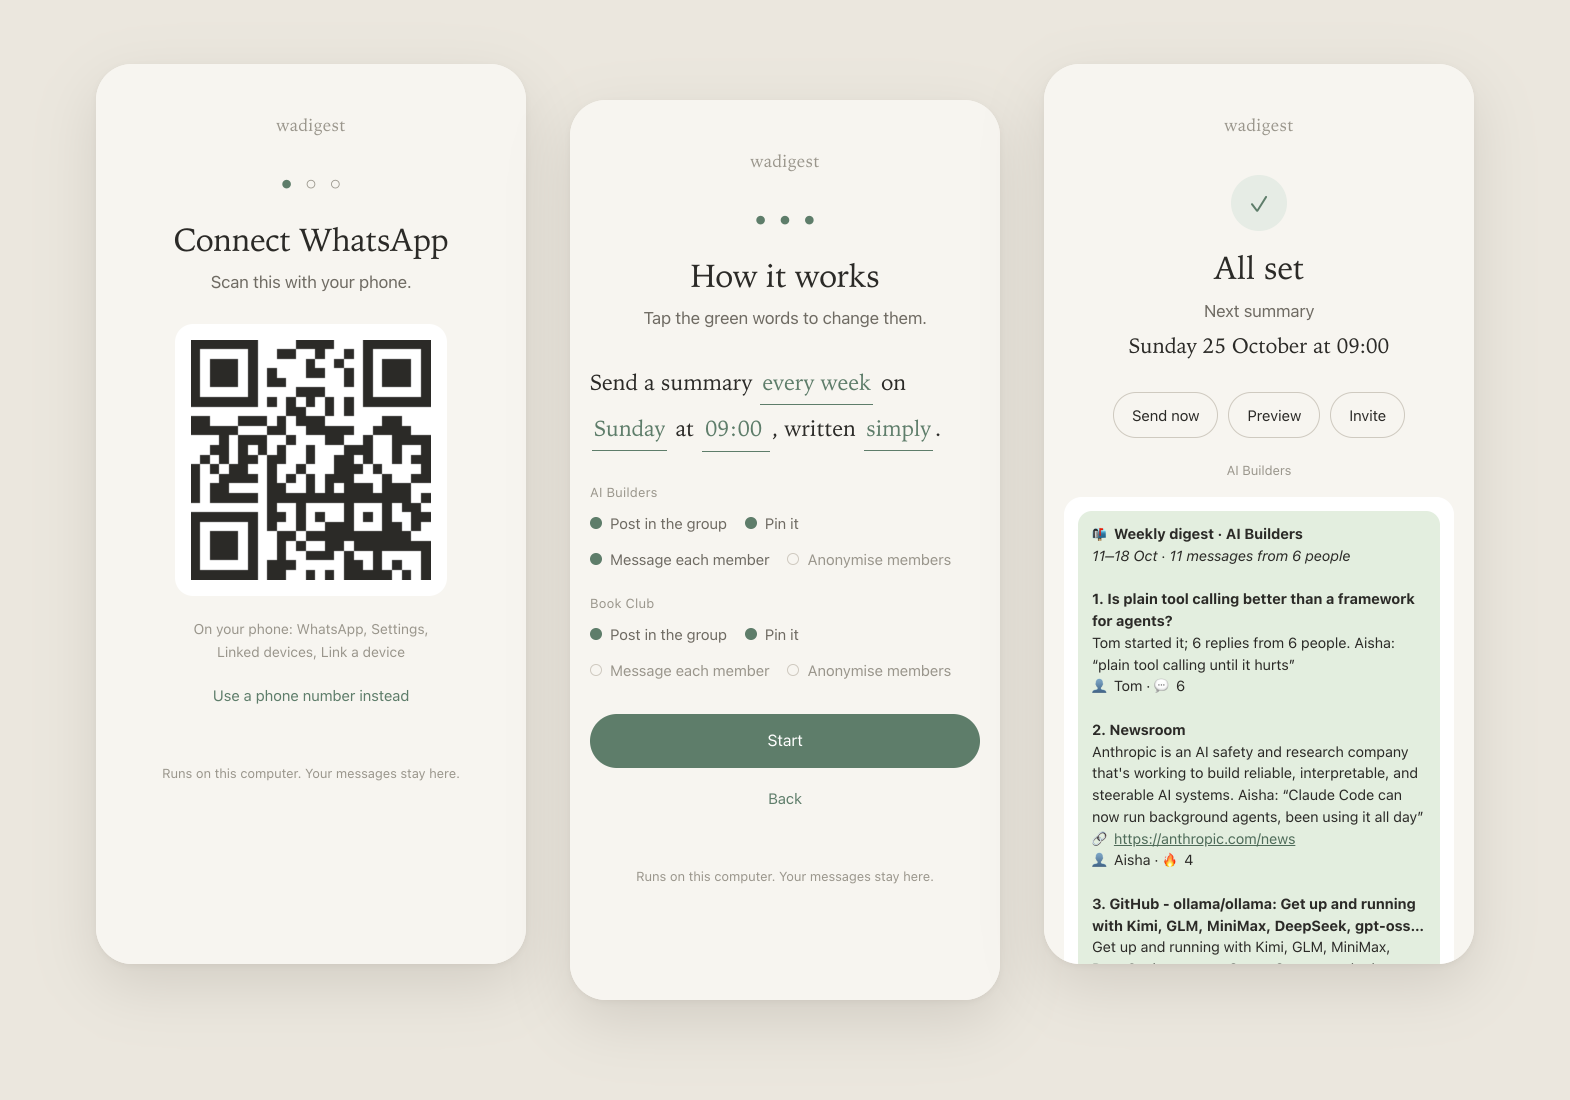
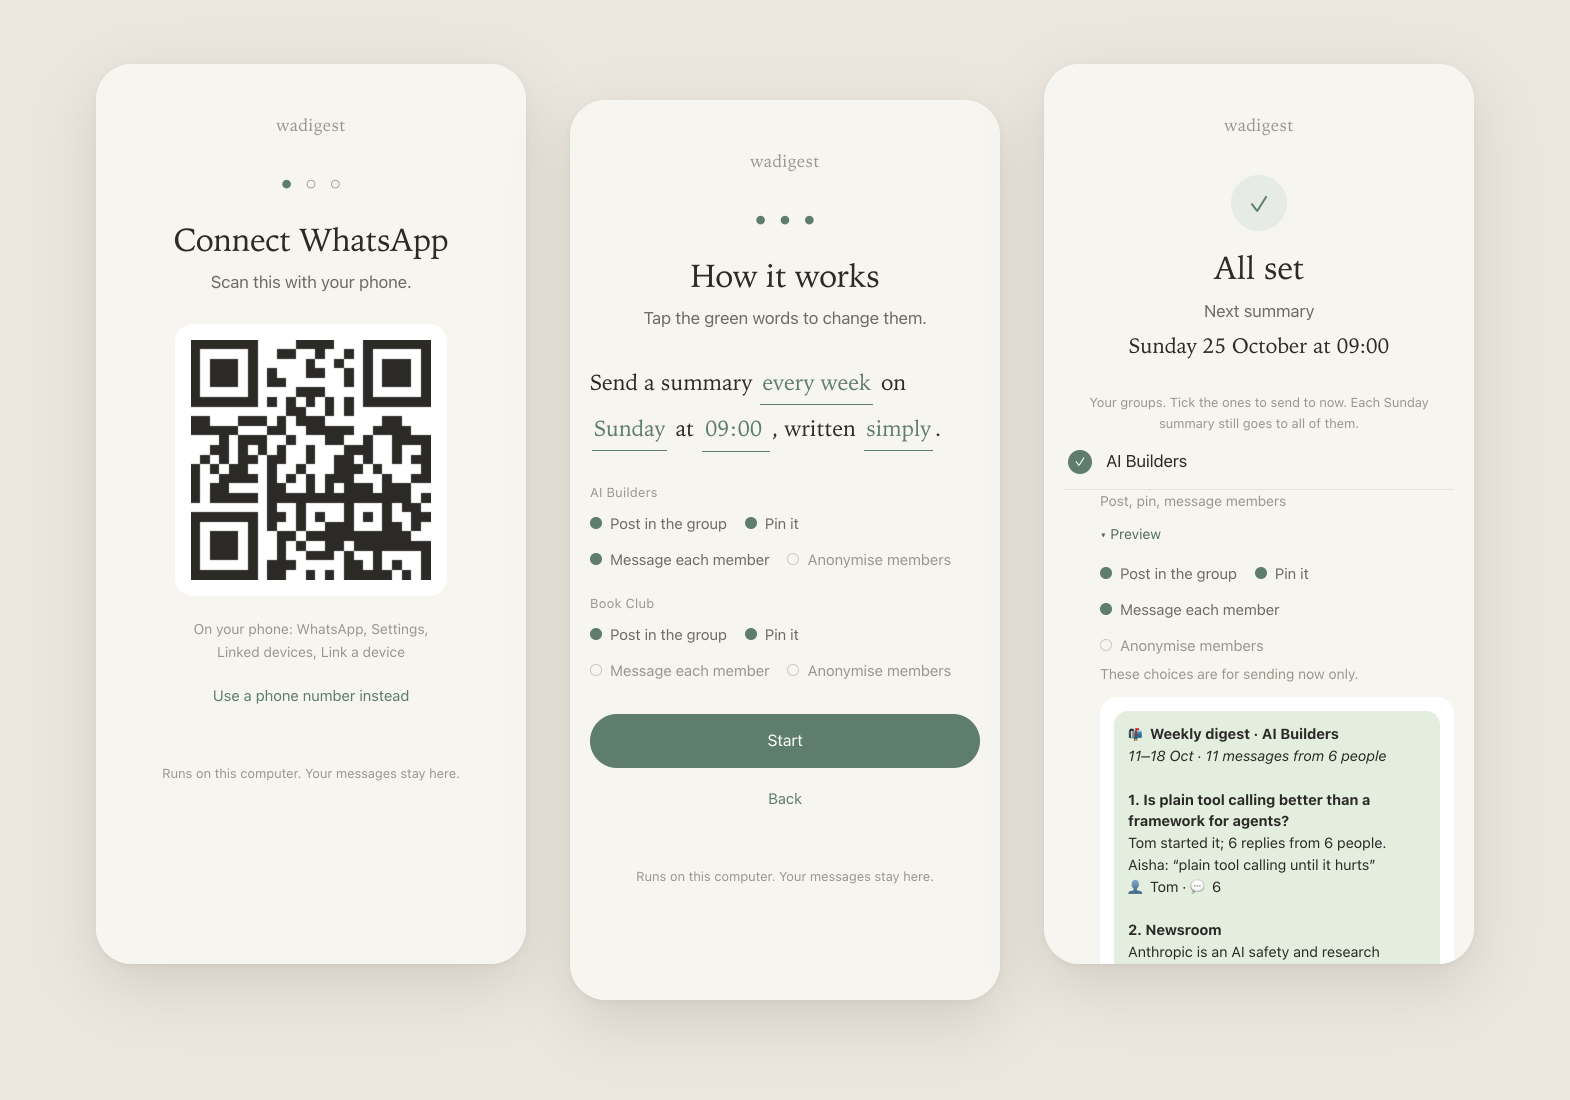
2.5.0: the home screen lists your groups with ticks, a preview for each and one Send button that works once each ticked preview is open

Changed region(s): [[0.6554, 0.34, 0.9363, 0.8964]]

diff --git a/src/ui/index.html b/src/ui/index.html
@@ -94,7 +94,11 @@
   details.pv > summary::before { content: "▸ "; }
   details.pv[open] > summary::before { content: "▾ "; }
   details.pv > .phone { margin-top: 8px; }
-  .sendg { margin: 2px 0 14px; }
+  .sendg { margin: 0 0 12px 36px; }
+  .sendg .gsum { margin: 0; text-align: left; }
+  .sendg details.pv { margin-top: 4px; }
+  .sendg details.pv > summary { text-align: left; }
+  .sendg .toggles { margin: 6px 0 2px; }
   details.more { margin-top: 26px; color: var(--ink-3); font-size: 13px; text-align: center; }
   details.more summary { cursor: pointer; }
   .log { font-family: var(--mono); font-size: 12px; text-align: left; background: var(--card); border-radius: 12px; padding: 10px 12px; max-height: 160px; overflow: auto; white-space: pre-wrap; margin-top: 10px; }
@@ -466,113 +470,88 @@ function waFormat(text) {
 function viewHome() {
   setSteps(0);
   const running = /running|paused/.test(S.service);
+  const opts = [['post', 'Post in the group'], ...(S.pin ? [['pin', 'Pin it']] : []), ['dm', 'Message each member'], ['anon', 'Anonymise members']];
+  const pick = new Map(S.groups.map((g) => [g.jid, { jid: g.jid, on: !g.sentToday, post: g.post !== false, pin: !!S.pin && g.post !== false && g.pin !== false, dm: g.dm !== false, anon: g.anon === true }]));
   $('#app').innerHTML = `
     <div class="done-mark">${running ? '✓' : '·'}</div>
     <h2>${running ? 'All set' : 'Paused'}</h2>
     <p class="lead" style="margin-bottom:4px">${running ? 'Next summary' : 'Nothing will be sent until you start it again.'}</p>
     ${running ? `<p class="next">${esc(S.nextRun)}</p>` : '<p class="center" style="margin:18px 0 30px"><button class="btn" id="startsvc">Start again</button></p>'}
-    <div class="row">
-      <button class="btn soft" id="runnow">Send now</button>
-      <button class="btn soft" id="prev">Preview</button>
-      <button class="btn soft" id="invite">Invite</button>
-    </div>
+    <p class="pvname">Your groups. Tick the ones to send to now. Each Sunday summary still goes to all of them.</p>
+    <div id="sendlist">${S.groups.map((g) => `
+      <label class="grow"><input type="checkbox" data-jid="${esc(g.jid)}" ${pick.get(g.jid).on ? 'checked' : ''}><span class="tick"></span><span>${esc(g.name)}${g.sentToday ? ` <span class="hint">(already sent today at ${esc(g.sentToday)})</span>` : ''}</span></label>
+      <div class="sendg" data-jid="${esc(g.jid)}"><p class="hint gsum"></p>
+      <details class="pv"><summary>Preview</summary><div class="toggles">${opts.map(([k, t]) => `<button class="tog" data-jid="${esc(g.jid)}" data-k="${k}">${t}</button>`).join('')}</div>
+      <p class="hint">These choices are for sending now only.</p><div class="phone"><div class="bubble"></div></div></details></div>`).join('')}</div>
+    <div id="senderr" class="err hidden"></div>
+    <button class="btn wide" id="sendgo" style="margin-top:18px" disabled>Send</button>
     <div id="out"></div>
-    <p class="links"><button class="btn link" data-go="groups">Change groups</button><button class="btn link" data-go="settings">Change settings</button><button class="btn link" data-go="relink">Change WhatsApp</button></p>`;
+    <p class="links"><button class="btn link" id="invite">Invite</button><button class="btn link" data-go="groups">Change groups</button><button class="btn link" data-go="settings">Change settings</button><button class="btn link" data-go="relink">Change WhatsApp</button></p>`;
   document.querySelectorAll('[data-go]').forEach((b) => b.onclick = () => {
     if (b.dataset.go === 'relink') { linkTab = 'qr'; view = 'link'; viewLink(true); return; }
     picked = null;
     go(b.dataset.go);
   });
   if ($('#startsvc')) $('#startsvc').onclick = async () => { busy($('#startsvc')); try { await api('/start', {}); await refresh(); viewHome(); } catch (e) { $('#out').innerHTML = note(e.message, 'bad'); } };
-  let previewSeq = 0;
-  let previews = null;
-  const getPreviews = (fresh) => (previews && !fresh ? previews : (previews = api(fresh ? '/preview?fresh=1' : '/preview').then((r) => r.previews).catch((e) => { previews = null; throw e; })));
-  const loadPreview = async (fresh) => {
-    const seq = ++previewSeq;
-    waiting($('#out'), S.mode === 'digest' ? 'Reading messages' : 'Reading every message and writing the summary', S.mode === 'digest' ? '' : 'This usually takes a minute or two. Nothing is sent.');
-    try {
-      const list = await getPreviews(fresh);
-      if (seq !== previewSeq || view !== 'home') return;
-      clearInterval(tickTimer);
-      $('#out').innerHTML = list.map((p, i) => `<details class="pv"${i === 0 ? ' open' : ''}><summary>${esc(p.name)} <span class="hint">(${p.messages} messages)</span></summary><div class="phone"><div class="bubble">${waFormat(p.text)}</div></div></details>`).join('') + '<p class="center"><button class="btn link" id="reprev">Refresh</button></p>';
-      $('#reprev').onclick = () => loadPreview(true);
-    } catch (e) { if (seq === previewSeq) $('#out').innerHTML = note(e.message, 'bad'); }
-  };
   $('#invite').onclick = () => {
-    previewSeq++;
     clearInterval(tickTimer);
     const link = `https://wa.me/${S.phone}?text=${encodeURIComponent('!digest join')}`;
     $('#out').innerHTML = `<div class="qr" style="margin-top:26px"><div class="box" id="qrbox"></div></div><p class="hint center">Anyone in your groups can scan this with their phone camera, then press send. They’ll get each summary as a message.</p>`;
     lastQr = '';
     drawQr(link);
   };
-  $('#runnow').onclick = () => {
-    previewSeq++;
-    clearInterval(tickTimer);
-    const seq = previewSeq;
-    const pick = new Map(S.groups.map((g) => [g.jid, { jid: g.jid, on: !g.sentToday, post: g.post !== false, pin: !!S.pin && g.post !== false && g.pin !== false, dm: g.dm !== false, anon: g.anon === true }]));
-    const opts = (g) => [['post', 'Post in the group'], ...(S.pin ? [['pin', 'Pin it']] : []), ['dm', 'Message each member'], ['anon', 'Anonymise members']]
-      .map(([k, t]) => `<button class="tog" data-jid="${esc(g.jid)}" data-k="${k}">${t}</button>`).join('');
-    $('#out').innerHTML = `<p class="pvname">Tick the groups to send to. The choices under each group are for this send only.</p><div id="sendlist">${S.groups.map((g) => `
-      <label class="grow"><input type="checkbox" data-jid="${esc(g.jid)}" ${pick.get(g.jid).on ? 'checked' : ''}><span class="tick"></span><span>${esc(g.name)}${g.sentToday ? ` <span class="hint">(already sent today at ${esc(g.sentToday)})</span>` : ''}</span></label>
-      <div class="sendg" data-jid="${esc(g.jid)}"><div class="toggles">${opts(g)}</div>
-      <details class="pv"><summary>Show what ${esc(g.name)} gets</summary><div class="phone"><div class="bubble"></div></div></details></div>`).join('')}</div>
-      <div id="senderr" class="err hidden"></div>
-      <button class="btn wide" id="sendgo" style="margin-top:18px" disabled>Waiting for the previews</button>
-      <p class="center" style="margin-top:10px"><button class="btn link" id="sendcancel">Cancel</button></p>`;
-    const box = (jid) => document.querySelector(`.sendg[data-jid="${CSS.escape(jid)}"]`);
-    const want = (c) => `${c.anon ? 1 : 0}${c.dm ? 1 : 0}`;
-    const shown = new Map();
-    let chain = Promise.resolve();
-    const refreshGo = () => {
-      const on = [...pick.values()].filter((c) => c.on);
-      const ready = on.length > 0 && on.every((c) => shown.get(c.jid) === want(c));
-      const empty = on.some((c) => !c.post && !c.dm);
-      $('#sendgo').disabled = !ready || empty;
-      $('#sendgo').textContent = !on.length ? 'Tick a group to send to' : empty ? 'Each group needs Post or Message' : ready ? `Send to ${on.length} group${on.length > 1 ? 's' : ''}` : 'Waiting for the previews';
-    };
-    const fetchPreview = (c) => {
-      const k = want(c);
-      const el = box(c.jid).querySelector('.bubble');
-      el.innerHTML = '<span class="spin"></span>Writing the preview…';
-      chain = chain.then(() => (seq === previewSeq && want(c) === k ? api(`/preview?group=${encodeURIComponent(c.jid)}&anon=${c.anon ? 1 : 0}&dm=${c.dm ? 1 : 0}`) : null)).then((r) => {
-        if (!r || seq !== previewSeq || want(c) !== k) return;
-        el.innerHTML = waFormat(r.previews[0].text);
-        shown.set(c.jid, k);
-        refreshGo();
-      }).catch((e) => { if (seq === previewSeq) showErr('#senderr', e.message); });
-    };
-    const paint = () => {
-      for (const c of pick.values()) {
-        const b = box(c.jid);
-        b.style.display = c.on ? '' : 'none';
-        b.querySelectorAll('.tog').forEach((t) => { t.classList.toggle('on', !!c[t.dataset.k]); t.setAttribute('aria-pressed', !!c[t.dataset.k]); });
-      }
-      refreshGo();
-    };
-    document.querySelectorAll('#sendlist input').forEach((i) => i.onchange = () => {
-      const c = pick.get(i.dataset.jid);
-      c.on = i.checked;
-      if (c.on && shown.get(c.jid) !== want(c)) fetchPreview(c);
-      paint();
-    });
-    document.querySelectorAll('#sendlist .tog').forEach((t) => t.onclick = () => {
-      const c = pick.get(t.dataset.jid);
-      const k = t.dataset.k;
-      c[k] = !c[k];
-      if (k === 'post' && !c.post) c.pin = false;
-      if (k === 'pin' && c.pin) c.post = true;
-      if (shown.get(c.jid) !== want(c)) fetchPreview(c);
-      paint();
-    });
-    $('#sendcancel').onclick = () => { previewSeq++; clearInterval(tickTimer); $('#out').innerHTML = ''; };
-    $('#sendgo').onclick = () => sendNow([...pick.values()].filter((c) => c.on).map(({ jid, post, pin, dm, anon }) => ({ jid, post, pin, dm, anon })));
-    for (const c of pick.values()) if (c.on) fetchPreview(c);
-    paint();
+  const box = (jid) => document.querySelector(`.sendg[data-jid="${CSS.escape(jid)}"]`);
+  const want = (c) => `${c.anon ? 1 : 0}${c.dm ? 1 : 0}`;
+  const shown = new Map();
+  const asked = new Map();
+  let chain = Promise.resolve();
+  const refreshGo = () => {
+    const on = [...pick.values()].filter((c) => c.on);
+    const missing = on.filter((c) => shown.get(c.jid) !== want(c));
+    const empty = on.some((c) => !c.post && !c.dm);
+    $('#sendgo').disabled = !on.length || empty || missing.length > 0 || !!S.run?.running;
+    $('#sendgo').textContent = !on.length ? 'Tick a group to send to'
+      : empty ? 'Each group needs Post or Message'
+        : missing.length ? `Open the preview of ${missing.length === 1 ? 'the ticked group' : `all ${missing.length} ticked groups`} first`
+          : `Send to ${on.length} group${on.length > 1 ? 's' : ''}`;
   };
-  const sendNow = async (jids) => {
-    if (!jids.length) return showErr('#senderr', 'Tick at least one group.');
-    try { await api('/run', { groups: jids }); } catch (e) { $('#out').innerHTML = note(e.message, 'bad'); return; }
+  const fetchPreview = (c) => {
+    const k = want(c);
+    if (asked.get(c.jid) === k) return;
+    asked.set(c.jid, k);
+    const el = box(c.jid).querySelector('.bubble');
+    el.innerHTML = `<span class="spin"></span>${S.mode === 'digest' ? 'Reading messages…' : 'Reading every message and writing the summary. This usually takes a minute or two.'}`;
+    chain = chain.then(() => (view === 'home' && want(c) === k ? api(`/preview?group=${encodeURIComponent(c.jid)}&anon=${c.anon ? 1 : 0}&dm=${c.dm ? 1 : 0}`) : null)).then((r) => {
+      if (!r || view !== 'home' || want(c) !== k) return;
+      el.innerHTML = waFormat(r.previews[0].text);
+      shown.set(c.jid, k);
+      refreshGo();
+    }).catch((e) => { asked.delete(c.jid); el.innerHTML = ''; showErr('#senderr', e.message); });
+  };
+  const paint = () => {
+    for (const c of pick.values()) {
+      const b = box(c.jid);
+      b.querySelector('.gsum').textContent = [c.post && 'Post', c.post && c.pin && 'pin', c.dm && 'message members', c.anon && 'names hidden'].filter(Boolean).join(', ').replace(/^./, (x) => x.toUpperCase()) || 'Nothing switched on';
+      b.querySelectorAll('.tog').forEach((t) => { t.classList.toggle('on', !!c[t.dataset.k]); t.setAttribute('aria-pressed', !!c[t.dataset.k]); });
+      if (b.querySelector('details').open && shown.get(c.jid) !== want(c)) fetchPreview(c);
+    }
+    refreshGo();
+  };
+  document.querySelectorAll('#sendlist details').forEach((d) => d.ontoggle = () => { if (d.open) paint(); });
+  document.querySelectorAll('#sendlist input').forEach((i) => i.onchange = () => { pick.get(i.dataset.jid).on = i.checked; paint(); });
+  document.querySelectorAll('#sendlist .tog').forEach((t) => t.onclick = () => {
+    const c = pick.get(t.dataset.jid);
+    const k = t.dataset.k;
+    c[k] = !c[k];
+    if (k === 'post' && !c.post) c.pin = false;
+    if (k === 'pin' && c.pin) c.post = true;
+    paint();
+  });
+  $('#sendgo').onclick = () => sendNow([...pick.values()].filter((c) => c.on).map(({ jid, post, pin, dm, anon }) => ({ jid, post, pin, dm, anon })));
+  const sendNow = async (groups) => {
+    if (!groups.length) return showErr('#senderr', 'Tick at least one group.');
+    $('#sendgo').disabled = true;
+    try { await api('/run', { groups }); } catch (e) { $('#out').innerHTML = note(e.message, 'bad'); refreshGo(); return; }
     clearInterval(pollTimer);
     const say = waiting($('#out'), 'Starting', 'This takes a few minutes. Private messages go out slowly on purpose, so WhatsApp stays happy.');
     pollTimer = setInterval(async () => {
@@ -585,7 +564,7 @@ function viewHome() {
       $('#out').innerHTML = `<p class="note ${r.error ? 'bad' : 'good'}" style="display:block">${lines.map(esc).join('<br>') || 'Sent'}</p>`;
     }, 1500);
   };
-  $('#prev').onclick = () => loadPreview(false);
+  paint();
 }
 
 function showErr(sel, msg) { const el = $(sel); el.textContent = msg; el.classList.remove('hidden'); }

diff --git a/HANDOVER.md b/HANDOVER.md
@@ -204,7 +204,7 @@ No runtime dependencies: just Node 20+.
 ## 7. Next steps (in order)
 
 1. **Demo video:** v2 is done: `demo/wadigest-demo-v2.mp4` (1920x1080, 3:08). It uses real footage of the full flow recorded with the fake WhatsApp tool and sample groups, a Kokoro voice (`bm_fable`, speed 1.08, free, runs locally) and a soft ffmpeg music bed. v1 (ElevenLabs "George") is `demo/wadigest-demo-v1.mp4`. `demo/` is not committed (gitignored). Rebuild steps are in `demo/NOTES.md`. Its build scripts live in the session scratch folder, so copy them somewhere safe if you want to edit the video later. Not checked: the voice by ear, including how it says "wa-dee-jest". The ElevenLabs account has about 1,170 characters left until its monthly reset.
-2. **Before Sunday 25 October 09:00:** leave the runner's Mac on or asleep (it catches up within 3 days). Open the page (`wadigest`) and press **Preview** to check each group.
+2. **Before Sunday 25 October 09:00:** leave the runner's Mac on or asleep (it catches up within 3 days). Open the page (`wadigest`) and open each group's **Preview** to check it.
 3. **Invite test:** on the page, press **Invite**; someone scans it and sends `!digest join`. They should get a reply within about 2 minutes.
 4. **Windows:** run the one PowerShell line on a Windows PC and go through setup.
 5. **Tell the groups:** *"You'll get a summary of this group here and by private message. Send `!digest interests agents, n8n` to get your picks first, or `!digest stop` for no private messages."*

diff --git a/README.md b/README.md
@@ -72,7 +72,7 @@ Members can reply to wadigest by private message, or send in the group:
 **Invite** on the home screen shows a QR code. Anyone can scan it with their phone camera, then press send in WhatsApp to sign up.
 
 
-**Send now** sends a summary at once. You tick the groups, and for each one you can change post, pin, private messages and anonymise for this send only. You see each group's summary before the Send button works. A group that already got its summary today starts unticked.
+The home screen lists your groups. Tick the ones to send to now. Open a group's **Preview** to see its summary and to change post, pin, private messages and anonymise for this send only. The Send button works only after you open the preview of each ticked group. A group that already got its summary today starts unticked. The Sunday summary always goes to all your groups, with their saved settings.
 
 Each summary ends with a short line: *Made with wadigest: github.com/sgaabdu4/wadigest*.
 

diff --git a/START-HERE.md b/START-HERE.md
@@ -20,8 +20,8 @@ It takes about 10 minutes, once.
 3. **Scan the code.** On your phone, open WhatsApp, then Settings, Linked devices, Link a device. Point the phone at the code on the page.
 4. **Tick your groups**, then press **Continue**.
 5. **Read the sentence.** It says when the summary is sent. Tap a green word to change it. Then press **Start**.
-6. **Press Preview** to see what it would send. Nothing gets sent.
-7. **Send now** (optional): tick the groups to send to. You see each group's summary before you press **Send**.
+6. **Open Preview** under a group to see what it would send. Nothing gets sent.
+7. **Send** (optional): tick the groups to send to now, open each one's preview, then press **Send**.
 
 That's it. You can close the page and the window. If the computer asks whether to stop the running process, say yes. wadigest keeps running in the background.
 
